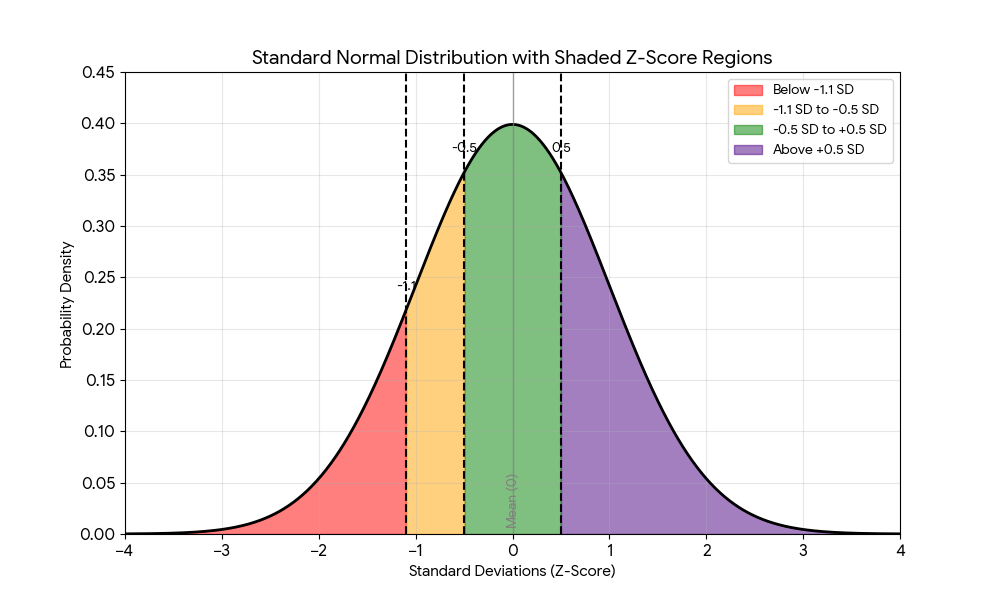
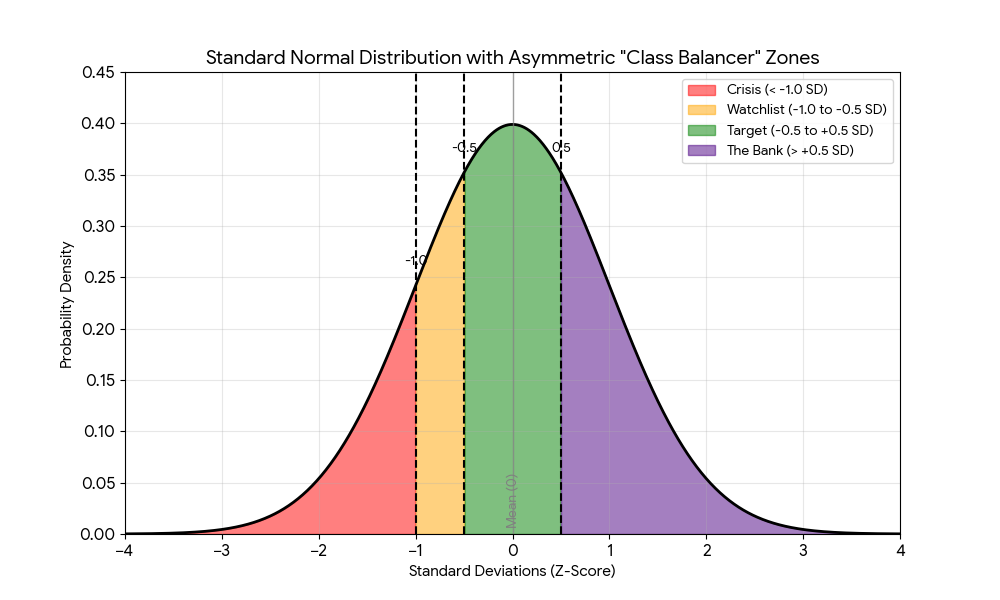
Adjusted z-scores

diff --git a/src/App.jsx b/src/App.jsx
@@ -8,7 +8,7 @@ const metersCache = new Map()
 const CORE_FIELDS = new Set(['id','firstname','lastname','gender','tags','notes','previousteacher','previous_teacher', 'name'])
 const norm = (s)=> String(s||'').toLowerCase().replace(/[^a-z0-9]/g,'')
 
-const VERSION = 'v2.2'
+const VERSION = 'v2.2.1'
 const BUILTIN_TAGS = ['504','IEP','ELL','Gifted','Speech']
 
 const WEIGHT_MAP = {
@@ -130,7 +130,7 @@ function calcMeters(cls, studentsById, criteria, allIds, cv){
     colorClass = 'bg-indigo-500';
     textColorClass = 'text-indigo-500';
     labelText = 'Above Avg';
-  } else if (zScore < -1.1) {
+  } else if (zScore < -1.0) {
     colorClass = 'bg-rose-500';
     textColorClass = 'text-rose-500';
     labelText = 'Far Below Avg';
